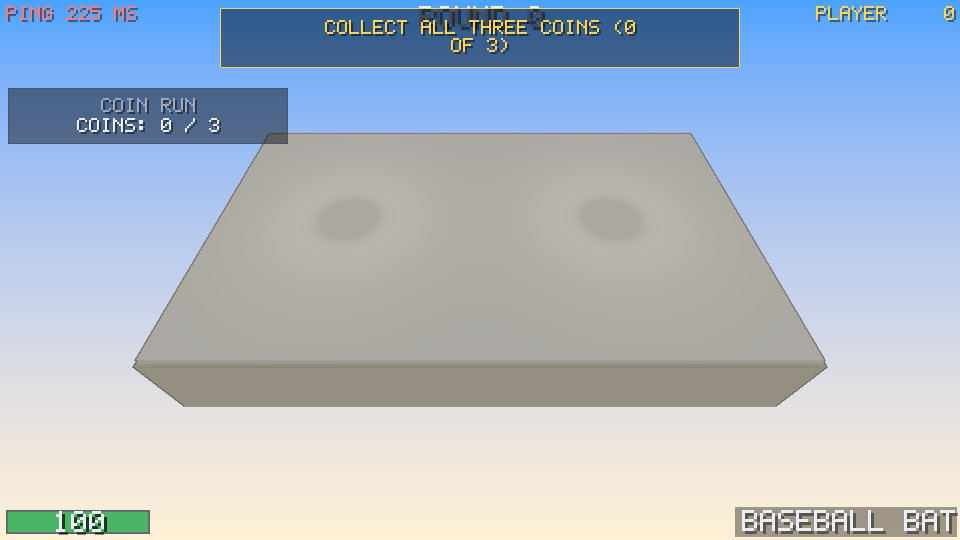
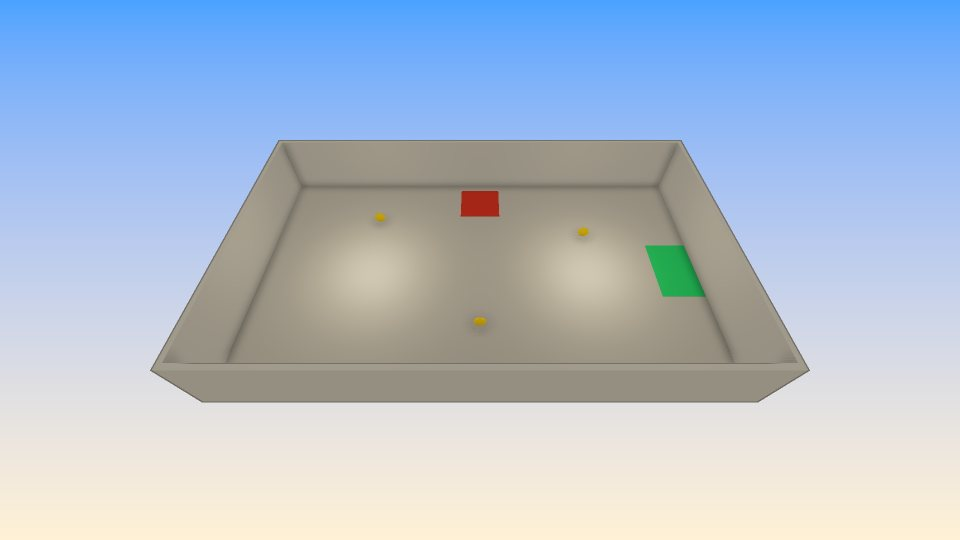
Wiki: Wormhole, Chroma; builder: a new picture name always draws; a song from a scene's music journey

diff --git a/site/wiki_build.py b/site/wiki_build.py
@@ -11,7 +11,8 @@ The engine is `--engine`, else $RED_ENGINE_EXE, else `red_engine2` on PATH. Need
 Every character and gallery entry of `site/wiki/<slug>/wiki.json` that has a `shot` gets its picture drawn to the file its `image` names (a `.jpg` name is
 saved as JPEG); an entry without `image` gets one (`c1.jpg`, `g1.png`, ...). Kinds of shot:
 
-  {"frame": {t, scenario, eye, at, fov, hide, hour, cut_above, seed}}    the game itself, as `red_engine2 frame` draws it (a 2D game is drawn at 3x its screen);
+  {"frame": {t, scenario, eye, at, fov, hide, hour, cut_above, seed, play, song_journey}}  the game itself (song_journey: a scene whose music journey to play to it)
+                                                                        , as `red_engine2 frame` draws it (a 2D game is drawn at 3x its screen);
                                                                          "crop": [l, t, r, b] (fractions) keeps and enlarges part of it
   {"sprite": NAME | [NAMES], "index": 0, "scale": 0}                     a 2D game's own pixel art, from its `sprites`, enlarged without blur
   {"prefab": NAME}                                                       a 3D game's own prefab, as `red_engine2 catalog --sheet` draws it (label band cropped)
@@ -81,6 +82,19 @@ def need_pil():
         raise RuntimeError("this shot needs Pillow (pip install pillow)")
 
 
+_SONGS = {}
+
+
+def journey_song(engine, scene_rel, sections):
+    """`red_engine2 audio journey SCENE --sections N --out song.wav`, once per build."""
+    key = (scene_rel, sections)
+    if key not in _SONGS:
+        out = Path(tempfile.mkdtemp(prefix="wiki-song-")) / "song.wav"
+        run(engine, ["audio", "journey", str(REPO / scene_rel), "--sections", str(sections), "--out", str(out)])
+        _SONGS[key] = out
+    return _SONGS[key]
+
+
 def draw_frame(engine, scene, shot, out):
     opts = shot["frame"]
     if is_2d(scene):
@@ -89,9 +103,11 @@ def draw_frame(engine, scene, shot, out):
     else:
         size = SIZE_3D
     args = ["frame", str(scene), "", "--size", f"{size[0]}x{size[1]}"]
-    for k in ("t", "scenario", "eye", "at", "fov", "hour", "cut_above", "seed"):
+    for k in ("t", "scenario", "eye", "at", "fov", "hour", "cut_above", "seed", "play"):
         if opts.get(k) is not None:
             args += [f"--{k.replace('_', '-')}", str(opts[k])]
+    if opts.get("song_journey"):   # a song for a game that listens to music: the music journey of a scene, rendered by the engine (nothing to commit)
+        args += ["--song", str(journey_song(engine, opts["song_journey"], opts.get("sections", 1)))]
     for h in ([opts["hide"]] if isinstance(opts.get("hide"), str) else opts.get("hide") or []):
         args += ["--hide", h]
     with tempfile.TemporaryDirectory() as tmp:
@@ -264,7 +280,8 @@ def build(slug: str, engine: str, redraw: bool = False) -> tuple[list[str], list
             shot = entry.get("shot")
             if not shot:
                 continue
-            if not entry.get("image"):   # a new entry: the first free name, so inserting one never takes another's picture
+            fresh = not entry.get("image")
+            if fresh:   # a new entry: the first free name, so inserting one never takes another's picture
                 ext = ".png" if "sprite" in shot else default_ext
                 n = i + 1
                 while f"{prefix}{n}{ext}" in taken:
@@ -273,7 +290,7 @@ def build(slug: str, engine: str, redraw: bool = False) -> tuple[list[str], list
                 taken.add(entry["image"])
             out = folder / entry["image"]
             key = hashlib.sha1(json.dumps(shot, sort_keys=True).encode()).hexdigest()[:12]
-            if out.is_file() and not redraw and entry.setdefault("drawn_from", key) == key:   # a picture without a record predates it: taken as current
+            if out.is_file() and not redraw and not fresh and entry.setdefault("drawn_from", key) == key:   # a picture without a record predates it: taken as current
                 drawn.append((entry.get("name") or entry.get("caption", ""), out))
                 continue
             try:
